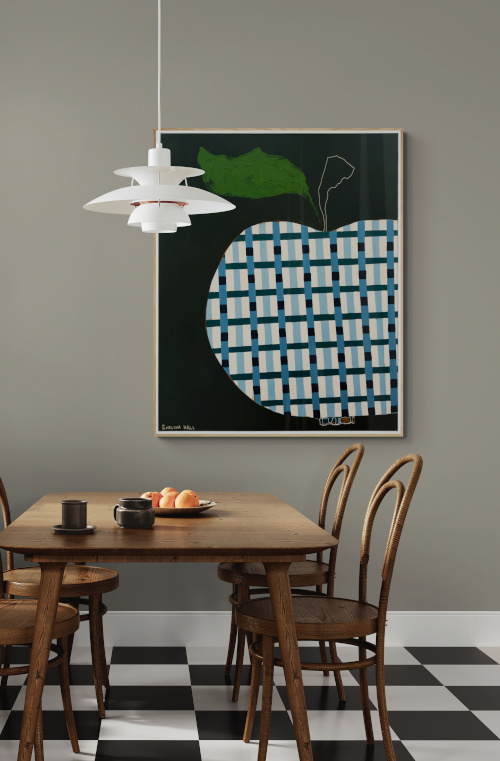
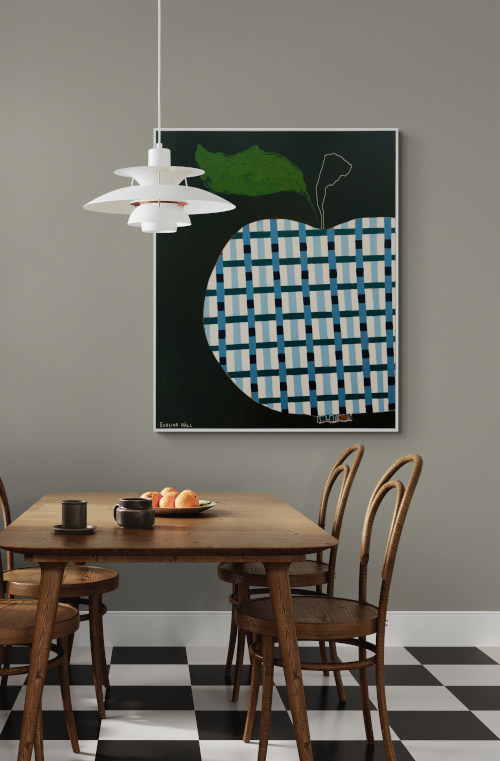
sync

Changed region(s): [[0.3, 0.1511, 0.84, 0.6045]]

diff --git a/index.html b/index.html
@@ -249,6 +249,7 @@
       <span id="description"></span>
       <span id="display_växjö">Tavlan finns att se i <a href="https://maps.app.goo.gl/DniepoWYHXm4GKu66" target="_blank">Växjö på Storgatan 15C</a>.</span>
       <span id="display_norrgavel">Tavlan finns att se på <a href="https://norrgavel.se/information/kundservice/butiker/lammhult" target="_blank">Norrgavel i Lammhult</a>.</span>
+      <span id="display_sodersblommor">Tavlan finns just nu att se på plats på Söders blommor i Växjö.</span>
       <button id="buy_button">Kontakta för intresse</button>
       <div id="disclaimer" style="font-style: italic; font-size: x-small; margin-top: 64px;;"></div>
     </div>
@@ -266,22 +267,31 @@
         <div style="padding: 0px 16px 0px">
           <p style="text-align: left;">
             <img src="/img/evelina_small.jpg" alt="" width="153" style="float: right; padding: 12px;" class="norounding">
-            Min egen konst som letar efter miljöer och hem att få förgylla. Konsten är för mig ett sätt att ge uttryck för känslor och tankar och det fina är att en tavla eller ett konstverk kan betyda något helt annat för dig än för mig. Därför är just konst ett utmärkt sätt att omge sig av hemma eller i den miljön man befinner sig i. Målar främst i akryl och med mycket känslor. Upplev min konst på Länsförsäkringar Kronobergs kontor i Växjö. Ny konst på <a href="https://norrgavel.se/information/kundservice/butiker/lammhult" target="_blank">Norrgavel</a> i Lammhult dyker snart upp.
-            <div style="max-width: 700px; padding: 16px 24px; margin-top: 16px; "><h3><b>Kommande utställning</b></h3>Utställning i samarbete med Länsförsäkring Kronoberg den 31/1 2026 kl 14:00-20:00. Jag finns på plats och bjuder in till en massa konst och ser fram emot många intressanta möten och samtal. <a href="https://upplev.vaxjo.se/evenemang/evenemang/2026-01-09-kulturnatten-hos-lansforsakring-kronoberg" target="_blank">Läs mer här</a></div>
+            Min egen konst som letar efter miljöer och hem att få förgylla. Konsten är för mig ett sätt att ge uttryck för känslor och tankar och det fina är att en tavla eller ett konstverk kan betyda något helt annat för dig än för mig. Därför är just konst ett utmärkt sätt att omge sig av hemma eller i den miljön man befinner sig i. Målar främst i akryl och med mycket känslor. <p>Utvald konst finns nu på <a href="https://sodersblommor.interflora.se/#/" target="_blank">Söders Blommor</a> i Växjö.</p>
           </p>
         </div>
 
         <div>
           <div id="product_list" class="product_list">
             <!-- lägg till här -->
+
+            <div name="darvaravarldarmots" title="Där våra världar möts" images="3" price="10 000" description="Akrylmålning i mått 102x83 cm inklusive träram i massiv ek" class="scroll-trigger animate--fade-in"></div>
+            <div name="lagommogen" title="Lagom mogen" images="3" price="10 000" description="Akrylmålning i mått 83x102 cm inklusive vit träram" class="scroll-trigger animate--fade-in"></div>
+            <div name="narformycketarlagom" title="När för mycket är lagom" display="sodersblommor" images="2" price="9 000" description="Akrylmålning i mått 82x102 cm inklusive vit träram" class="scroll-trigger animate--fade-in"></div>
+            <div name="kattenimig" title="Katten i mig" images="2" price="10 000" description="Akrylmålning i mått 102x82 cm inklusive träram i massiv ek" class="scroll-trigger animate--fade-in"></div>
+
+
+            <div name="harochnubla" title="Här och nu" display="sodersblommor" images="3" price="4 800" description="Akrylmålning i mått 62x62 cm inklusive vit träram" class="scroll-trigger animate--fade-in"></div>
+            <div name="bistroibersan" title="Bistro i bersån" images="3" price="9 000" description="Akrylmålning i mått 102x102 cm inklusive vit träram" class="scroll-trigger animate--fade-in"></div>
+            <div name="moderntradition" title="Modern tradition" display="sodersblommor" images="2" price="6 500" description="Akrylmålning i mått 62x82 cm inklusive vit träram" class="scroll-trigger animate--fade-in"></div>
+
             <div name="rundochkantig" title="Rund och kantig" images="3" price="9 000" description="Akrylmålning i mått 82x102 cm inklusive vit träram" class="scroll-trigger animate--fade-in"></div>
             <div name="stegvis" title="Stegvis" images="3" price="9 000" description="Akrylmålning i mått 82x102 cm inklusive vit träram" class="scroll-trigger animate--fade-in"></div>
             <div name="paronsplit" title="Päronsplit" images="3" price="9 000" description="Akrylmålning i mått 82x102 cm inklusive vit träram" class="scroll-trigger animate--fade-in"></div>
-            <div name="overvaldigad" title="Överväldigad" images="3" price="9 000" description="Akryl- och oljepastellmålning i mått 83x102 cm inklusive vit träram" class="scroll-trigger animate--fade-in"></div>
+            <div name="overvaldigad" title="Överväldigad" display="sodersblommor" images="3" price="9 000" description="Akryl- och oljepastellmålning i mått 83x102 cm inklusive vit träram" class="scroll-trigger animate--fade-in"></div>
 
             <div name="ytskikt" title="Ytskikt" images="3" price="10 000 kr för 2 st" arttext="Vi putsar och putsar. Ytskiktet glänser som en spegel på en sjö.<br/>Lika vackert är det när regnet lämnar ringar eller stormen river och krusar.<br/>Ytan är perfekt, putsa något annat." description="Akrylmålning i mått 52x72 cm inklusive vit träram" class="scroll-trigger animate--fade-in"></div>
 
-            <div name="narformycketarlagom" title="När för mycket är lagom" images="2" price="10 000" description="Akrylmålning i mått 82x102 cm inklusive träram i massiv ek" class="scroll-trigger animate--fade-in"></div>
             <div name="inreglod" title="Inre glöd" images="2" price="10 000" description="Akrylmålning i mått 102x82 cm inklusive träram i massiv ek" class="scroll-trigger animate--fade-in"></div>
             <div name="puls" title="PULS" images="3" price="10 000" description="Akrylmålning i mått 102x102 cm inklusive vit träram" class="scroll-trigger animate--fade-in"></div>
 
@@ -291,22 +301,18 @@
             <div name="melankoli" title="Melankoli" images="2" price="9 000" description="Akrylmålning i mått 102x82 cm inklusive träram i massiv ek" class="scroll-trigger animate--fade-in"></div>
             <div name="skymningsland" title="Skymningsland" images="3" price="6 000" description="Akrylmålning i mått 72x52 cm inklusive vit träram" class="scroll-trigger animate--fade-in"></div>
 
-            <div name="darvaravarldarmots" title="Där våra världar möts" images="3" price="10 000" description="Akrylmålning i mått 102x83 cm inklusive träram i massiv ek" class="scroll-trigger animate--fade-in"></div>
-            <div name="lagommogen" title="Lagom mogen" images="3" price="10 000" description="Akrylmålning i mått 83x102 cm inklusive vit träram" class="scroll-trigger animate--fade-in"></div>
             <div name="livetslapptacke2_5" title="Livet lapptäcke (2-5)" images="5" price="2 000 kr/st" description="Akrylmålning i mått 32x32 cm inklusive träram i massiv ek" class="scroll-trigger animate--fade-in"></div>
 
             <div name="livetslapptacke" title="Livets lapptäcke" images="3" price="10 000" description="Akrylmålning i mått 102x102 cm inklusive träram i massiv ek" class="scroll-trigger animate--fade-in"></div>
             <div name="stamtavla" title="Stamtavla" images="2" price="9 000" description="Akrylmålning i mått 82x102 cm inklusive träram i massiv ek" class="scroll-trigger animate--fade-in"></div>
             <div name="enstundformigsjalv" title="En stund för mig själv - Såld" sold="true" images="3" price="9 000" description="Akrylmålning i mått 82x102 cm inklusive vit träram" class="scroll-trigger animate--fade-in"></div>
 
-            <div name="moderntradition" title="Modern tradition" images="2" price="6 500" description="Akrylmålning i mått 62x82 cm inklusive vit träram" class="scroll-trigger animate--fade-in"></div>
 
             <div name="andrum3" title="Andrum 3" images="2" price="6 800" description="Akrylmålning i mått 82x82 cm inklusive vit träram" class="scroll-trigger animate--fade-in"></div>
             <div name="flaskhals" title="Flaskhals" images="4" price="9 000" description="Akrylmålning i mått 82x102 cm inklusive vit träram" class="scroll-trigger animate--fade-in"></div>
             <div name="fallerfordig" title="Faller för dig - Såld" sold="true" images="3" price="10 000" description="Akrylmålning i mått 102x102 cm inklusive träram i massiv ek" class="scroll-trigger animate--fade-in"></div>
 
             <div name="harochnubeige" title="Här och nu - Såld" sold="true" images="2" price="4 800" description="Akrylmålning i mått 62x62 cm inklusive vit träram" class="scroll-trigger animate--fade-in"></div>
-            <div name="harochnubla" title="Här och nu" images="3" price="4 800" description="Akrylmålning i mått 62x62 cm inklusive vit träram" class="scroll-trigger animate--fade-in"></div>
             <div name="alltgar" title="Allt går" images="4" price="3 800" description="Akrylmålning i mått 50x50 cm" class="scroll-trigger animate--fade-in"></div>
             <div name="skuggspel" title="Skuggspel" images="3" price="4 200" description="Akrylmålning i mått 62x62 cm inklusive vit träram" class="scroll-trigger animate--fade-in"></div>
             <div name="lera" title="Lera" images="9" price="1 200 kr/st" description="Akrylmålning i mått 23x23 cm inklusive vit träram" class="scroll-trigger animate--fade-in"></div>

diff --git a/js/scripts.js b/js/scripts.js
@@ -41,6 +41,7 @@ const init = () => {
   const description = document.getElementById("description");
   const display_vaxjo = document.getElementById("display_växjö");
   const display_norrgavel = document.getElementById("display_norrgavel");
+  const display_sodersblommor = document.getElementById("display_sodersblommor");
   const disclaimer = document.getElementById("disclaimer");
   const buyDisclaimer = document.getElementById("product_buy_disclaimer");
   const artText = document.getElementById("artText");
@@ -121,7 +122,7 @@ const init = () => {
       for (let i = 0; i < 9; i++) {
         setSrc(imageElements[i], images >= (i+1) ? '/img/'+name+'/'+(i+1)+'_small.jpg' : '');
       }
-      price.innerText = attr.price + (attr.price.endsWith('kr/st') ? '' : ' kr');
+      price.innerText = attr.price + (attr.price.includes('kr') ? '' : ' kr');
       artText.innerHTML = attr.arttext || '';
       description.innerText = attr.description + '. ';
       disclaimer.innerText = DISCLAIMER;
@@ -130,12 +131,19 @@ const init = () => {
       if (onDisplay === 'växjö') {
         show(display_vaxjo);
         hide(display_norrgavel);
+        hide(display_sodersblommor);
       } else if (onDisplay === 'norrgavel') {
         hide(display_vaxjo);
         show(display_norrgavel);
+        hide(display_sodersblommor);
+      } else if (onDisplay === 'sodersblommor') {
+        hide(display_vaxjo);
+        hide(display_norrgavel);
+        show(display_sodersblommor);
       } else {
         hide(display_vaxjo);
         hide(display_norrgavel);
+        hide(display_sodersblommor);
       }
 
       hide(showImageDialog);